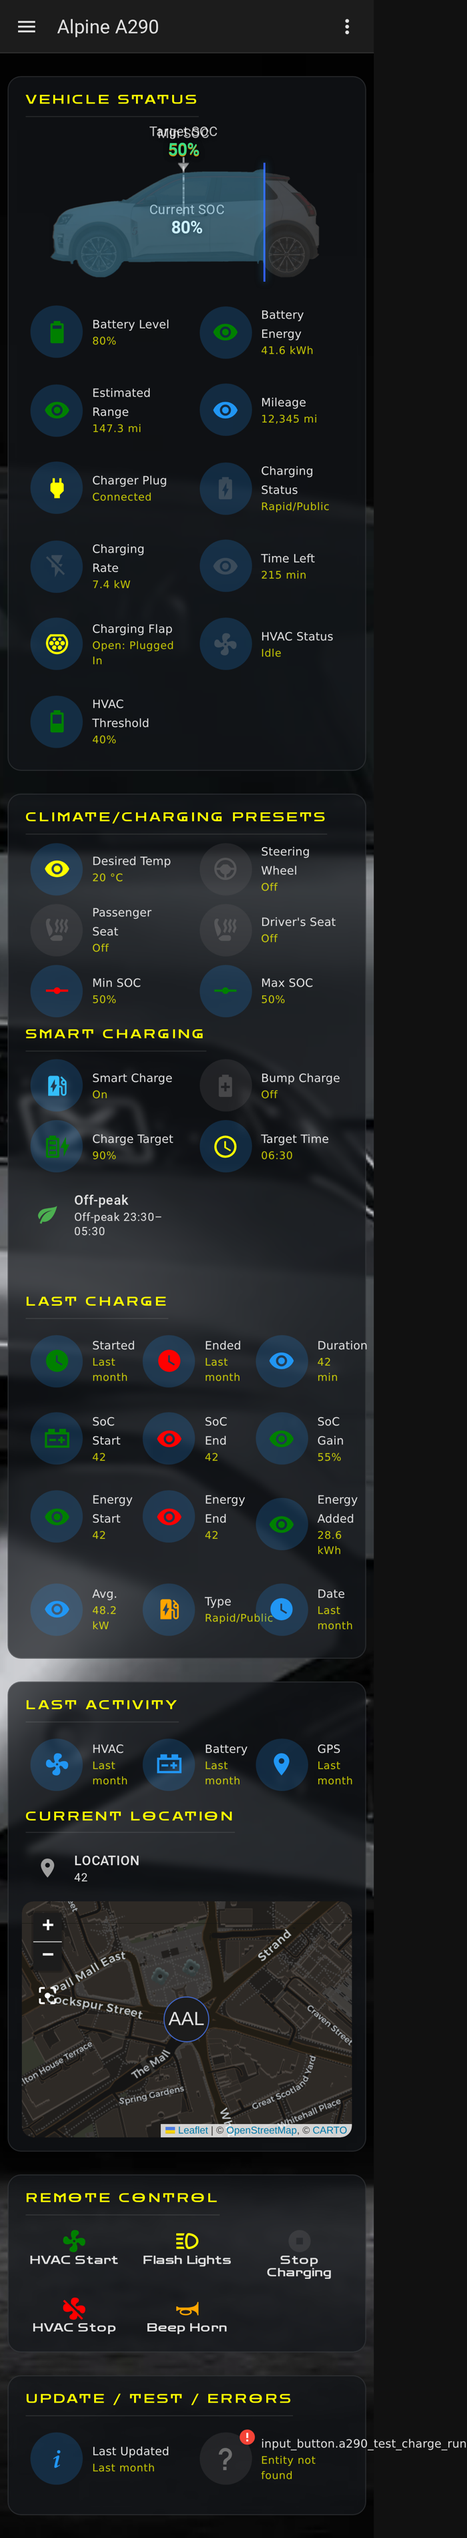
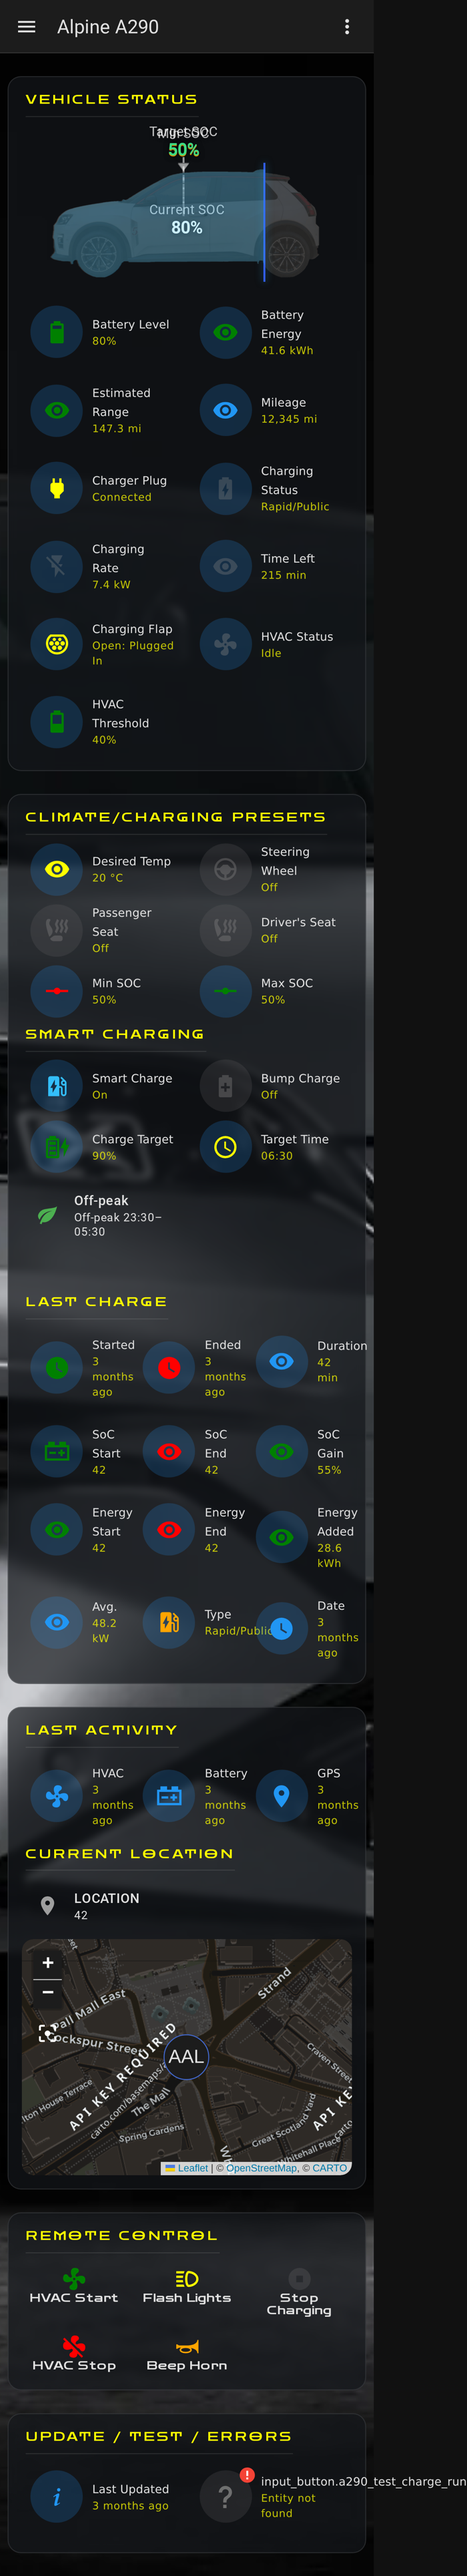
docs: clarify A290 charge-start status (advertised, end-to-end unconfirmed) (#92)
* docs: clarify A290 charge-start status (advertised, end-to-end unconfirmed)

Phase 3a of the charge-start work (reconciled with a review design review): fix the
docs to accurate/cautious wording instead of adding a dashboard tile before the
feature is proven on a real car.

- Resolves the contradiction between the 1.19.0 changelog (over-claimed 'triggers
  an immediate charge') and README/DOCS/INSTALLATION (still said 'forbidden').
- charge-start is now advertised via renault-api 0.5.13; the button *requests* an
  immediate charge by disabling scheduled programs — a no-op with no schedule set,
  and not yet confirmed end-to-end. charge-stop stays unavailable.
- No dashboard tile yet (held for a real button-press test). No code change.
- Version -> 1.19.2.

* chore: refresh dashboard screenshots [refresh-shots]

---------

diff --git a/README.md b/README.md
@@ -23,8 +23,9 @@ The **dashboards now ship inside the app** (previously a separate `a290-dashboar
 repo — since merged in and archived): enable `deploy_dashboard` and the app installs a
 ready-made dashboard for you. Controls (lights, horn, climate, refresh location) are sent
 **natively** by the app — **you do not need Home Assistant's `renault` integration**. (Remote
-charge-start is forbidden by Renault on the A290, so no Start Charging button is offered —
-that's a platform limit, not a missing feature.)
+charge-start is now advertised for the A290 via renault-api 0.5.13, so the app publishes a
+Start Charging button that *requests* an immediate charge; remote charge-*stop* stays
+unavailable — stop at the charger.)
 
 ## What's here
 
@@ -109,8 +110,9 @@ key needed.
   previously-retained GPS from the broker, for a zero location footprint.
 - **Native controls (no Home Assistant `renault` integration):**
   `button.alpine_a290_sound_horn`, `…_flash_lights`, `…_start_climate`, `…_stop_climate`,
-  `…_refresh_location` — each gated on what the platform supports (charge-start is
-  forbidden on the A290, so it isn't shipped).
+  `…_refresh_location`, `…_start_charging` — each gated on what the platform supports.
+  Charge-start (new via renault-api 0.5.13) *requests* an immediate charge; charge-*stop*
+  stays unavailable.
 - **Writable charge limits:** `number.alpine_a290_minimum_soc` (15–45 %) and
   `number.alpine_a290_charge_target_soc` (55–100 %) — sliders that set the car's charge limits
   via `set_battery_soc` (`soc-levels`). These cover the one capability Home Assistant's `renault` integration had over the app, so it's no longer needed.
@@ -139,9 +141,10 @@ available.
 | Refresh location | `actions/refresh-location` | ⚠ best-effort (may 403) |
 | Tyre pressure (TPMS) | `pressure` | ❌ forbidden |
 | Charge mode | `charge-mode` | ❌ forbidden |
-| Start / stop charging | `actions/charge-start` · `actions/charge-stop` | ❌ forbidden |
+| Start charging | `actions/charge-start` | ⚠ advertised (0.5.13), end-to-end unconfirmed |
+| Stop charging | `actions/charge-stop` | ❌ forbidden |
 
-✅ supported · ⚠ library default, untested (may return forbidden) · ❌ Renault forbids it on the A290
+✅ supported · ⚠ library default / newly advertised, untested (may return forbidden or no-op) · ❌ Renault forbids it on the A290
 
 > Set `debug_dump: true` to log the decoded response of every readable endpoint (secrets
 > redacted) — useful if Renault changes what the platform exposes.

diff --git a/alpine_a290/DOCS.md b/alpine_a290/DOCS.md
@@ -196,8 +196,7 @@ The buttons and number entities work by the app subscribing to `alpine_a290/cmd/
 MQTT broker — anything able to publish to that topic can trigger a control (horn, lights,
 climate, charge-limit sliders). That's inherent to MQTT discovery, not a bug in the app; if
 your broker is shared with other apps or devices, restrict who can publish to
-`alpine_a290/cmd/#` with a broker ACL. (Charge-start is forbidden on the A290, so there's no
-charge-start control to worry about.)
+`alpine_a290/cmd/#` with a broker ACL.
 
 ## Requirements
 
@@ -235,12 +234,16 @@ won't see a control your A290 rejects):
 | **Flash Lights** | Flashes the headlights. |
 | **Start Climate** | Starts preconditioning to `precondition_temperature`. |
 | **Stop Climate** | Stops preconditioning. |
+| **Start Charging** | *Requests* an immediate charge by disabling any scheduled-charge programs. New via renault-api 0.5.13 — see note. |
 | **Refresh Location** | Forces a fresh GPS fix. *(May report forbidden on the A290 — see note.)* |
 
-> Remote **charge-start is forbidden** on the A290 by Renault, so no Start Charging button
-> is shown. **Refresh Location** isn't explicitly documented for the A290 in `renault-api`;
-> it falls back to the default endpoint and may return *forbidden* when pressed — harmless
-> if so, but it may simply not work.
+> Remote **charge-start** is newly advertised for the A290 (renault-api 0.5.13): the
+> **Start Charging** button *requests* an immediate charge by disabling scheduled-charge
+> programs. On a car with **no charge schedule set** there may be nothing to disable, so the
+> request can be a no-op — end-to-end charging on the A290 is **not yet confirmed**. Remote
+> charge-*stop* stays unavailable — stop at the charger. **Refresh Location** isn't explicitly
+> documented for the A290 in `renault-api`; it falls back to the default endpoint and may
+> return *forbidden* when pressed — harmless if so, but it may simply not work.
 
 ### Last Charge
 

diff --git a/alpine_a290/dashboards/INSTALLATION.md b/alpine_a290/dashboards/INSTALLATION.md
@@ -3,8 +3,10 @@
 > **Back up Home Assistant before you start** (Settings → System → Backups). These
 > steps add a dashboard (and, for the manual route, packages and helpers) to your config.
 >
-> **Charging control:** Renault **forbids remote charge start and stop on the A290**, so
-> the app ships no charging buttons and the dashboards include no charge tile.
+> **Charging control:** the app publishes a **Start Charging** button that *requests* an
+> immediate charge (new via renault-api 0.5.13; may be a no-op if no charge schedule is set,
+> and not yet confirmed end-to-end). Remote charge-*stop* stays unavailable — stop at the
+> charger. The bundled dashboards don't yet include a charge tile.
 
 This dashboard is the **frontend only**. All car data is provided by the
 **[Alpine A290 app](https://github.com/MatthewHobbs/a290-ha-addon)** — a proper
@@ -74,9 +76,10 @@ safe). To pull in a later layout update, set `redeploy_dashboard: true` and rest
 ### 4. Control buttons + optional extras
 
 - **Control buttons:** the app publishes these **natively over MQTT** — no Home Assistant `renault` integration needed: `button.alpine_a290_sound_horn`, `…_flash_lights`,
-  `…_start_climate`, `…_stop_climate`, `…_refresh_location`. Each is gated on what the
-  platform supports; Renault **forbids remote charge-start/stop on the A290**, so no
-  charging buttons are shipped and the dashboards include no charge tile.
+  `…_start_climate`, `…_stop_climate`, `…_refresh_location`, `…_start_charging`. Each is gated
+  on what the platform supports. Charge-start (new via renault-api 0.5.13) *requests* an
+  immediate charge (may be a no-op with no schedule set); charge-*stop* stays unavailable. The
+  bundled dashboards don't yet include a charge tile.
 - **Pretty location** and **test mode** are not auto-deployed — they're a small package
   you merge manually. See [Optional extras](#optional-extras).
 

diff --git a/alpine_a290/CHANGELOG.md b/alpine_a290/CHANGELOG.md
@@ -1,5 +1,13 @@
 # Changelog
 
+## 1.19.2
+
+- **Docs: clarify the charge-start status.** `button.alpine_a290_start_charging` (added in 1.19.0)
+  *requests* an immediate charge by disabling any scheduled-charge programs. On a car with **no
+  charge schedule set** there may be nothing to disable, so the request can be a no-op — end-to-end
+  charging on the A290 is **not yet confirmed**. Remote charge-*stop* remains unavailable (stop at
+  the charger). No code change.
+
 ## 1.19.1
 
 - **Fix: account auto-discovery now works for Alpine owners.** The add-on picked the first
@@ -13,9 +21,10 @@
 - **Remote charge-start is now available on the A290.** renault-api 0.5.13 exposes the KCM
   "start via settings" endpoint for the A290 (`A5E1AE`), which was previously forbidden. The
   add-on already carries a gated `Start Charging` control, so on this version it publishes
-  **`button.alpine_a290_start_charging`** automatically. Pressing it triggers an immediate
-  charge (by clearing the scheduled-charge programs, the same mechanism the R5 already uses).
-  Remote charge-*stop* remains unavailable on the A290 — stop at the charger.
+  **`button.alpine_a290_start_charging`** automatically. Pressing it *requests* an immediate
+  charge by disabling any scheduled-charge programs (the same mechanism the R5 uses); on a car
+  with no charge schedule this may be a no-op, and end-to-end charging is not yet confirmed (see
+  1.19.2). Remote charge-*stop* remains unavailable on the A290 — stop at the charger.
 
 ## 1.18.2
 
